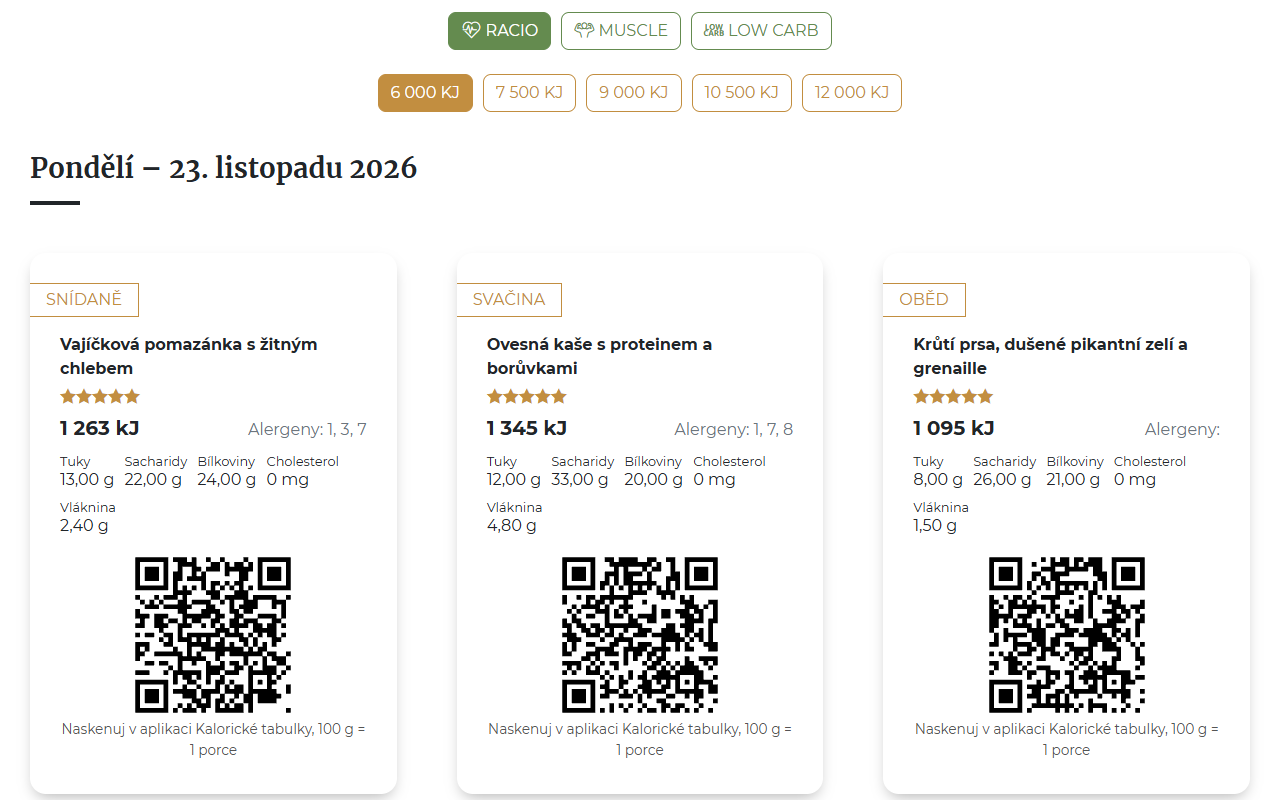
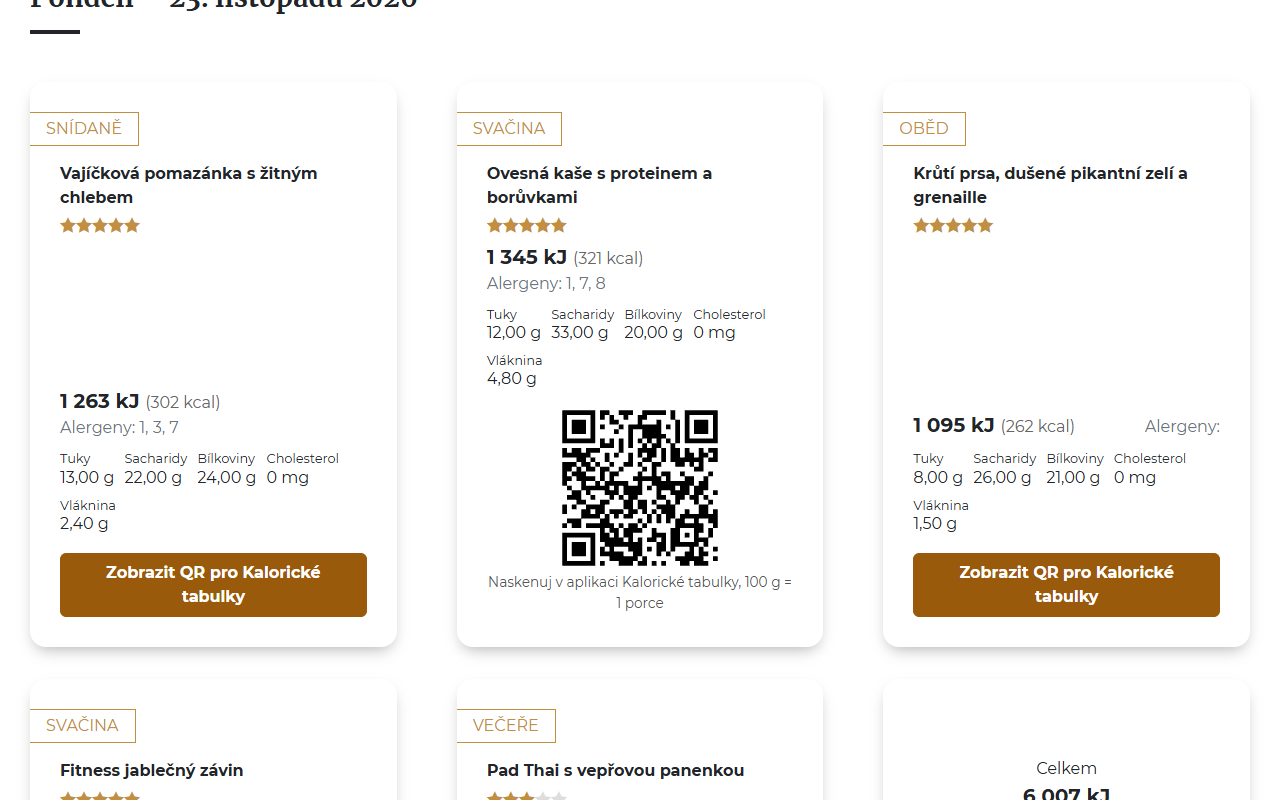
docs: describe QR on click, kcal and the portion unit limit

diff --git a/README.md b/README.md
@@ -4,15 +4,16 @@
 [![Chrome Manifest V3](https://img.shields.io/badge/Chrome-Manifest_V3-4285F4?logo=googlechrome&logoColor=white)](extension/manifest.json)
 [![Python 3.12](https://img.shields.io/badge/Python-3.12-3776AB?logo=python&logoColor=white)](ffkt)
 
-> Chrome extension that shows a QR code next to every meal of the [ffmenu.cz](https://www.ffmenu.cz/jidelnicek) weekly menu. Scanning it with the [Kalorické tabulky](https://www.kaloricketabulky.cz) app opens the meal, with the energy and macros from the menu, ready to be added to your diary.
+> Chrome extension that shows a QR code for any meal of the [ffmenu.cz](https://www.ffmenu.cz/jidelnicek) weekly menu. Scanning it with the [Kalorické tabulky](https://www.kaloricketabulky.cz) app opens the meal, with the energy and macros from the menu, ready to be added to your diary.
 
 Česká verze: [README.cs.md](README.cs.md). Not affiliated with FF Menu (BeraTaste s.r.o.) or Kalorické tabulky (Dine4Fit, a.s.).
 
 ## Features
 
-- 📱 **QR code per meal** - every meal card on ffmenu.cz/jidelnicek gets a QR code that the barcode scanner of the Kalorické tabulky app opens as a food
+- 📱 **QR code per meal** - a "Zobrazit QR pro Kalorické tabulky" button on every meal card shows a QR code that the barcode scanner of the Kalorické tabulky app opens as a food
+- 🔥 **kcal next to kJ** - the menu shows the energy in kcal as well, converted the way the Kalorické tabulky app does it
 - ⚖ **Values from the menu** - energy, protein, carbohydrates, fat, fiber and cholesterol are read from the page, nothing is estimated
-- 🔁 **One food per dish** - the extension creates each dish in Kalorické tabulky once and reuses it when the dish comes back
+- 🔁 **No duplicates** - before creating a food the extension runs the Kalorické tabulky duplicate check and reuses an FF Menu food with the same values, created by anyone
 - 🔐 **Runs in the browser only** - the extension calls Kalorické tabulky directly and stores the MD5 hash of your password, not the password
 - 📷 **Optional label scanner** - a Python service with a phone page that reads the box label with OCR (Tesseract.js) and matches it to the menu, plus a command that logs a whole day
 
@@ -40,9 +41,9 @@ The same zip is the upload for the Chrome Web Store; the listing texts, privacy 
 
 ## Usage
 
-Open [ffmenu.cz/jidelnicek](https://www.ffmenu.cz/jidelnicek) and pick your program. Below every meal a QR code appears. In the Kalorické tabulky app tap "Čárový kód", point the camera at the code and add the food that opens. The food is named `FF Menu: <meal> (<portion energy> kJ)` and one portion is entered as 100 g, because FF Menu does not publish the weight of a portion. Kalorické tabulky fails with an error on a title it already has, so a repeated title gets a four-character suffix.
+Open [ffmenu.cz/jidelnicek](https://www.ffmenu.cz/jidelnicek) and pick your program. Below every meal there is a "Zobrazit QR pro Kalorické tabulky" button; clicking it shows the QR code. In the Kalorické tabulky app tap "Čárový kód", point the camera at the code and add the food that opens. The food is named `FF Menu: <meal> (<portion energy> kJ)` and one portion is entered as 100 g, because FF Menu does not publish the weight of a portion. Kalorické tabulky fails with an error on a title it already has, so a repeated title gets a four-character suffix.
 
-The extension creates the food under your account the first time it shows the meal. Kalorické tabulky makes new foods available to all its users, so these foods are public in their database.
+When you click, the extension looks for the meal in Kalorické tabulky and creates it under your account only if it is not there yet. Kalorické tabulky makes new foods available to all its users, so these foods are public in their database.
 
 ## Label scanner and daily import (optional)
 
@@ -99,7 +100,7 @@ FFKT_LIVE=1 FFKT_KT_EMAIL=... FFKT_KT_PASSWORD=... python -m unittest discover -
 
 - The Kalorické tabulky API is unofficial. If it changes, writing fails and the extension shows the error returned by Kalorické tabulky.
 - Foods created by the extension are public in the Kalorické tabulky database and show sugar and salt as 0.
-- Kalorické tabulky names the portion unit "100 g", so one FF Menu portion is entered as 100 g.
+- Kalorické tabulky ignores the portion unit of a new food (tried with "porce" at 100 g and 300 g) and keeps the food locked until its moderators approve it, so one FF Menu portion is entered as 100 g.
 - FF Menu publishes the next week's menu during the week. Until then there are no QR codes for it.
 
 ## Contributing

diff --git a/README.cs.md b/README.cs.md
@@ -6,9 +6,10 @@ English version: [README.md](README.md). Projekt nemá nic společného s FF Men
 
 ## Co umí
 
-- U každého jídla na ffmenu.cz/jidelnicek je QR kód, který čtečka v aplikaci Kalorické tabulky otevře jako potravinu.
+- U každého jídla na ffmenu.cz/jidelnicek je tlačítko „Zobrazit QR pro Kalorické tabulky“. Ukáže QR kód, který čtečka v aplikaci Kalorické tabulky otevře jako potravinu.
+- K energii v kJ doplní přepočet na kcal, stejný, jaký počítá aplikace KT.
 - Energii, bílkoviny, sacharidy, tuky, vlákninu a cholesterol čte ze stránky. Nic neodhaduje.
-- Každé jídlo v Kalorických tabulkách založí jen jednou. Když se jídlo v dalším týdnu vrátí, použije stejnou potravinu.
+- Nezakládá duplicity: před založením se zeptá kontroly duplicit v Kalorických tabulkách a použije potravinu FF Menu se stejnými hodnotami, ať ji založil kdokoli.
 - Běží jen v prohlížeči: s Kalorickými tabulkami mluví napřímo a heslo si neukládá, drží jen jeho MD5 hash.
 - Volitelně je tu služba v Pythonu se stránkou pro mobil: přečte štítek z krabičky (OCR) a najde jídlo v jídelníčku. Umí taky zapsat celý den jedním příkazem.
 
@@ -27,9 +28,9 @@ Doplněk načte i Firefox 121 a novější. Část na stránce jídelníčku jse
 
 ## Použití
 
-Otevři [ffmenu.cz/jidelnicek](https://www.ffmenu.cz/jidelnicek) a vyber svůj program. Pod každým jídlem se objeví QR kód. V aplikaci Kalorické tabulky klepni na „Čárový kód“, namiř fotoaparát na kód a otevřenou potravinu přidej. Jmenuje se `FF Menu: <jídlo> (<energie porce> kJ)` a jedna porce se zadává jako 100 g, protože FF Menu váhu porce neuvádí. Název, který už v Kalorických tabulkách je, končí u nich chybou, proto dostane opakovaný název čtyřznakovou příponu.
+Otevři [ffmenu.cz/jidelnicek](https://www.ffmenu.cz/jidelnicek) a vyber svůj program. Pod každým jídlem je tlačítko „Zobrazit QR pro Kalorické tabulky“, po kliknutí se ukáže QR kód. V aplikaci Kalorické tabulky klepni na „Čárový kód“, namiř fotoaparát na kód a otevřenou potravinu přidej. Jmenuje se `FF Menu: <jídlo> (<energie porce> kJ)` a jedna porce se zadává jako 100 g, protože FF Menu váhu porce neuvádí. Název, který už v Kalorických tabulkách je, končí u nich chybou, proto dostane opakovaný název čtyřznakovou příponu.
 
-Potravinu doplněk založí pod tvým účtem, když jídlo poprvé zobrazí. Kalorické tabulky nové potraviny zpřístupňují všem uživatelům, takže jsou v jejich databázi veřejné.
+Po kliknutí doplněk jídlo v Kalorických tabulkách vyhledá a pod tvým účtem ho založí, jen když tam ještě není. Kalorické tabulky nové potraviny zpřístupňují všem uživatelům, takže jsou v jejich databázi veřejné.
 
 ## Sken štítku a celý den naráz (volitelné)
 
@@ -79,7 +80,7 @@ FFKT_LIVE=1 FFKT_KT_EMAIL=... FFKT_KT_PASSWORD=... python -m unittest discover -
 
 - Rozhraní Kalorických tabulek je neoficiální. Když ho změní, zápis selže a doplněk ukáže chybu, kterou KT vrátily.
 - Potraviny založené doplňkem jsou v databázi Kalorických tabulek veřejné a mají cukry a sůl 0.
-- Kalorické tabulky jednotku porce pojmenují „100 g“, takže jedna porce FF Menu se zadává jako 100 g.
+- Jednotku „porce“ Kalorické tabulky u nové potraviny ignorují (zkoušeno se 100 g i 300 g) a potravinu do schválení moderátorem zamknou, takže jedna porce FF Menu se zadává jako 100 g.
 - Jídelníček na další týden zveřejňuje FF Menu až během týdne. Do té doby pro něj QR kódy nejsou.
 
 ## Licence

diff --git a/store/listing.md b/store/listing.md
@@ -6,13 +6,13 @@ Texts and answers for the developer dashboard. Upload `dist/ffmenu-kt-<version>.
 
 **Name:** FF Menu do Kalorických tabulek
 
-**Summary:** QR kód u každého jídla na jídelníčku ffmenu.cz. Naskenuješ ho v aplikaci Kalorické tabulky a jídlo přidáš do deníku.
+**Summary:** QR kód k jídlům z jídelníčku ffmenu.cz. Naskenuješ ho v aplikaci Kalorické tabulky a jídlo přidáš do deníku.
 
 **Description:**
 
-Na jídelníčku ffmenu.cz ukáže pod každým jídlem QR kód. V aplikaci Kalorické tabulky klepneš na „Čárový kód“, namíříš fotoaparát na kód a otevře se jídlo s energií, bílkovinami, sacharidy, tuky, vlákninou a cholesterolem z jídelníčku. Pak ho jen přidáš do deníku.
+Na jídelníčku ffmenu.cz přidá ke každému jídlu tlačítko „Zobrazit QR pro Kalorické tabulky“ a k energii v kJ přepočet na kcal. V aplikaci Kalorické tabulky klepneš na „Čárový kód“, namíříš fotoaparát na kód a otevře se jídlo s energií, bílkovinami, sacharidy, tuky, vlákninou a cholesterolem z jídelníčku. Pak ho jen přidáš do deníku.
 
-Jak to funguje: v nastavení doplňku zadáš e-mail a heslo do Kalorických tabulek. Doplněk si uloží jen MD5 hash hesla. Když jídlo poprvé zobrazí, založí ho pod tvým účtem v Kalorických tabulkách jako potravinu, stejně jako „Přidat novou potravinu“ v aplikaci. Kalorické tabulky nové potraviny zpřístupňují všem uživatelům.
+Jak to funguje: v nastavení doplňku zadáš e-mail a heslo do Kalorických tabulek. Doplněk si uloží jen MD5 hash hesla. Po kliknutí jídlo v Kalorických tabulkách vyhledá. Když tam ještě není, založí ho pod tvým účtem jako potravinu, stejně jako „Přidat novou potravinu“ v aplikaci. Kalorické tabulky nové potraviny zpřístupňují všem uživatelům.
 
 Dobré vědět:
 - Jedna porce FF Menu se v aplikaci zadává jako 100 g, protože FF Menu váhu porce neuvádí.
